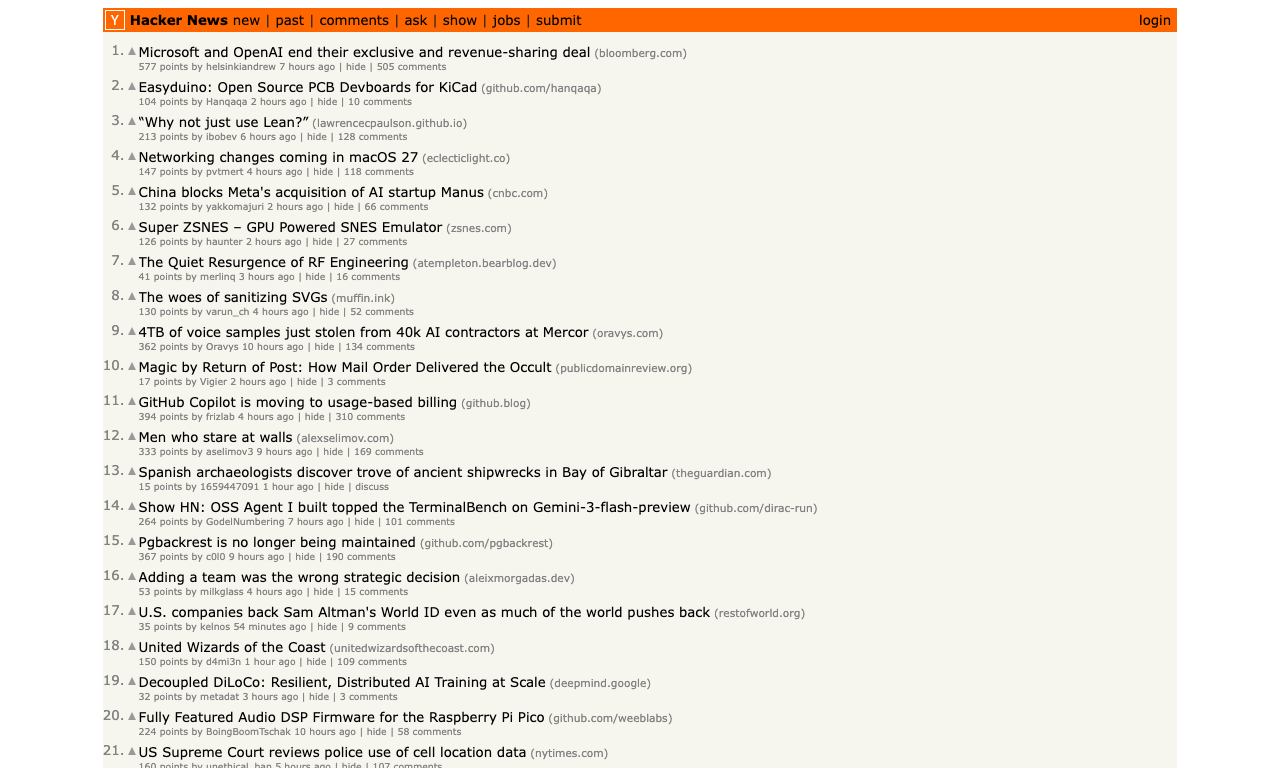
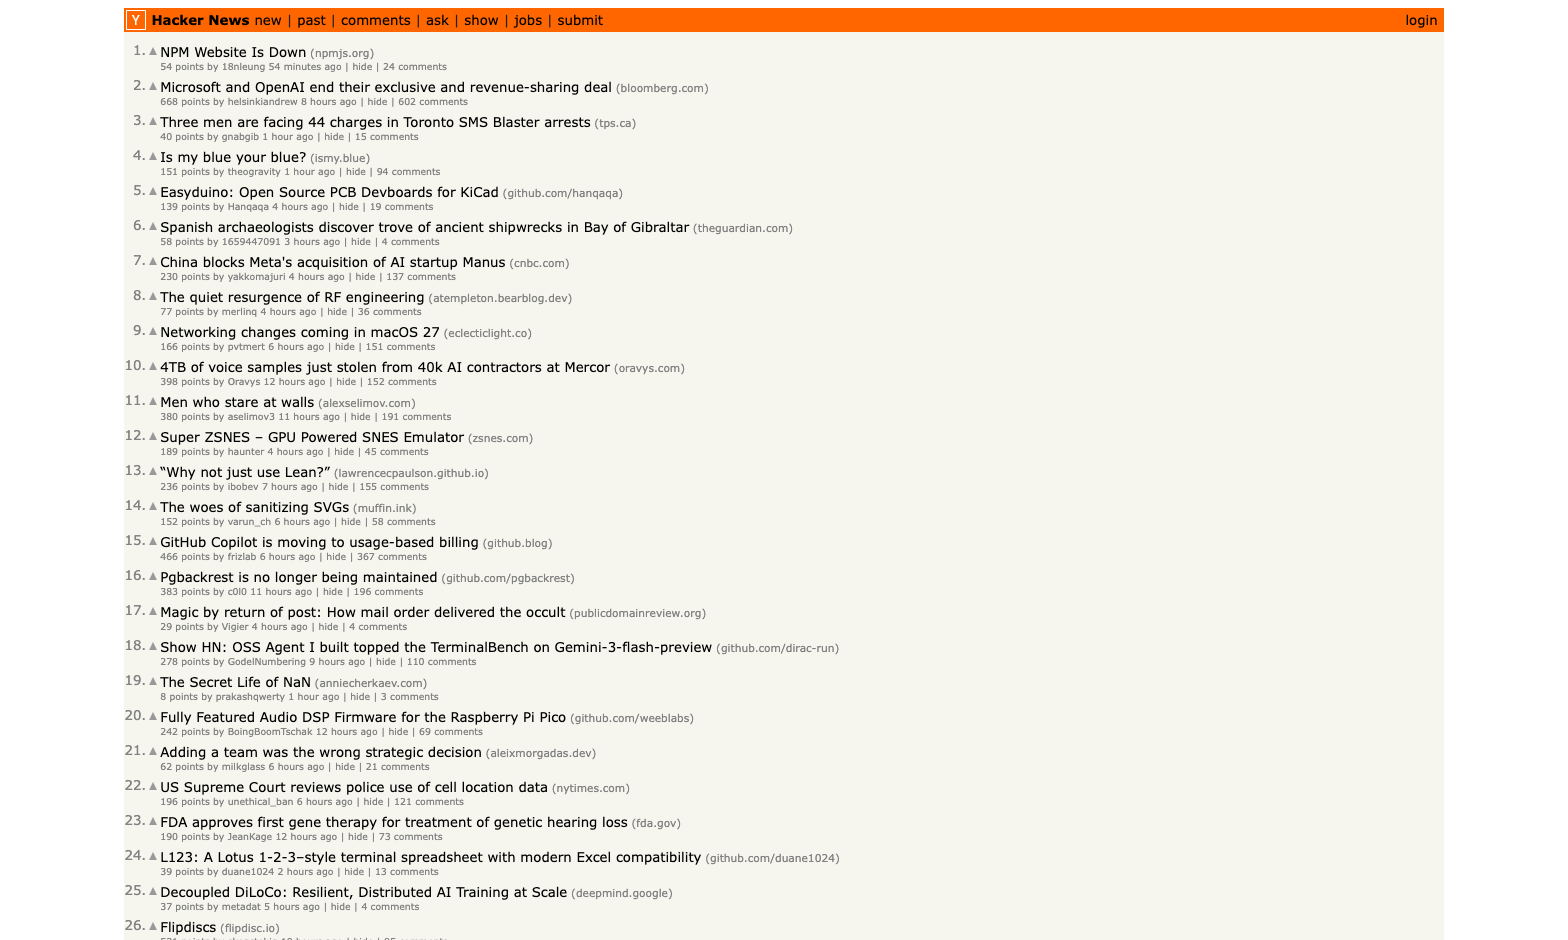
fix: judge error logging + ss rez

Changed region(s): [[0.0625, 0.0, 0.9375, 1.0]]

diff --git a/prototypes/click_eval/src/click_eval/harness.py b/prototypes/click_eval/src/click_eval/harness.py
@@ -82,6 +82,7 @@ def run_eval(options: RunOptions, predict_point: PredictPoint) -> dict[str, obje
             _log(options, f"[{task.task_id}] GT: n/a")
         else:
             _log(options, f"[{task.task_id}] GT: ({gt_point.x:.1f}, {gt_point.y:.1f})")
+        _log_judge_statuses(options, task.task_id, resolved)
         resolved_rows.append(resolved)
         task_image_size = image_size(task.image_path)
         judge_annotations = _judge_annotations(resolved, gt_point)
@@ -349,8 +350,6 @@ def _judge_annotations(
         if not isinstance(row, dict):
             continue
         point = parse_point_value(row.get("point"))
-        if point is None:
-            continue
         annotations.append(
             {
                 "label": f"GT{index}",
@@ -360,12 +359,49 @@ def _judge_annotations(
                 "point": point,
                 "l2": (
                     math.hypot(point.x - gt_point.x, point.y - gt_point.y)
-                    if gt_point is not None
+                    if point is not None and gt_point is not None
                     else None
                 ),
+                "error": row.get("error"),
+                "skipped": row.get("skipped"),
             }
         )
     return annotations
+
+
+def _log_judge_statuses(
+    options: RunOptions, task_id: str, resolved: dict[str, object]
+) -> None:
+    rows = resolved.get("gt_judges")
+    if not isinstance(rows, list):
+        return
+
+    for index, row in enumerate(rows, start=1):
+        if not isinstance(row, dict):
+            continue
+        name = str(row.get("name") or row.get("model_id") or f"judge-{index}")
+        duration = row.get("duration_seconds")
+        duration_text = (
+            f" in {float(duration):.2f}s"
+            if isinstance(duration, int | float)
+            else ""
+        )
+        error = row.get("error")
+        if row.get("skipped"):
+            _log(options, f"[{task_id}] GT{index} {name} skipped{duration_text}: {error}")
+            continue
+        if error:
+            _log(options, f"[{task_id}] GT{index} {name} failed{duration_text}: {error}")
+            continue
+        point = parse_point_value(row.get("point"))
+        if point is None:
+            _log(options, f"[{task_id}] GT{index} {name} finished{duration_text}: no point")
+            continue
+        _log(
+            options,
+            f"[{task_id}] GT{index} {name} finished{duration_text}: "
+            f"({point.x:.1f}, {point.y:.1f})",
+        )
 
 
 def _predict_judges_for_task(

diff --git a/prototypes/click_eval/src/click_eval/viz.py b/prototypes/click_eval/src/click_eval/viz.py
@@ -52,7 +52,8 @@ def annotate_image(
             distance = f"{float(l2):.1f}px" if l2 is not None else "n/a"
             legend_lines.append((f"{label} {model_name}: {distance}", color))
         else:
-            legend_lines.append((f"{label} {model_name}: error", color))
+            error = str(judge.get("error") or "no point")
+            legend_lines.append((f"{label} {model_name}: {_short_text(error)}", color))
 
     for index, prediction in enumerate(predictions):
         color = COLORS[index % len(COLORS)]
@@ -92,3 +93,10 @@ def _draw_legend(draw, lines, font) -> None:
     for index, (text, color) in enumerate(lines):
         y = padding + index * line_height
         draw.text((padding, y), text, fill=color, font=font)
+
+
+def _short_text(text: str, max_chars: int = 80) -> str:
+    compact = " ".join(text.split())
+    if len(compact) <= max_chars:
+        return compact
+    return compact[: max_chars - 1] + "..."

diff --git a/prototypes/click_eval/README.md b/prototypes/click_eval/README.md
@@ -24,10 +24,9 @@ left unscored: judge outputs are recorded for inspection, but no median fallback
 GT is created and no green `GT` marker is rendered. If `gt_point` is present,
 that provided point is the scoring GT.
 
-The bundled Hacker News sample screenshot is captured at `1280x768` DPR 1. That
-keeps the image under the common `1280 * 28 * 28` Qwen-derived pixel budget used
-by several local GUI models while preserving enough vertical context for desktop
-web tasks.
+The bundled Hacker News sample screenshot is captured at `1568x940` DPR 1. That
+keeps the long edge at the common Claude 1568 px no-resize threshold while still
+being much smaller than a 4K screenshot for local GUI models.
 
 The default model config is `examples/models.json`. The abbreviated cloud/API
 portion is: